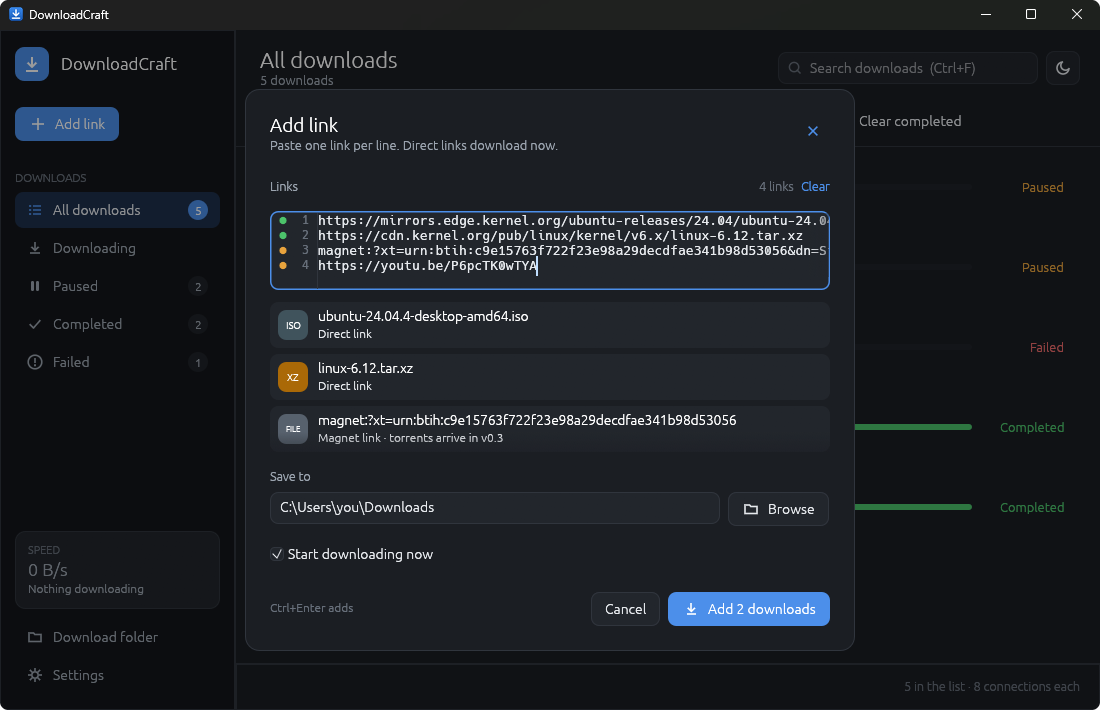
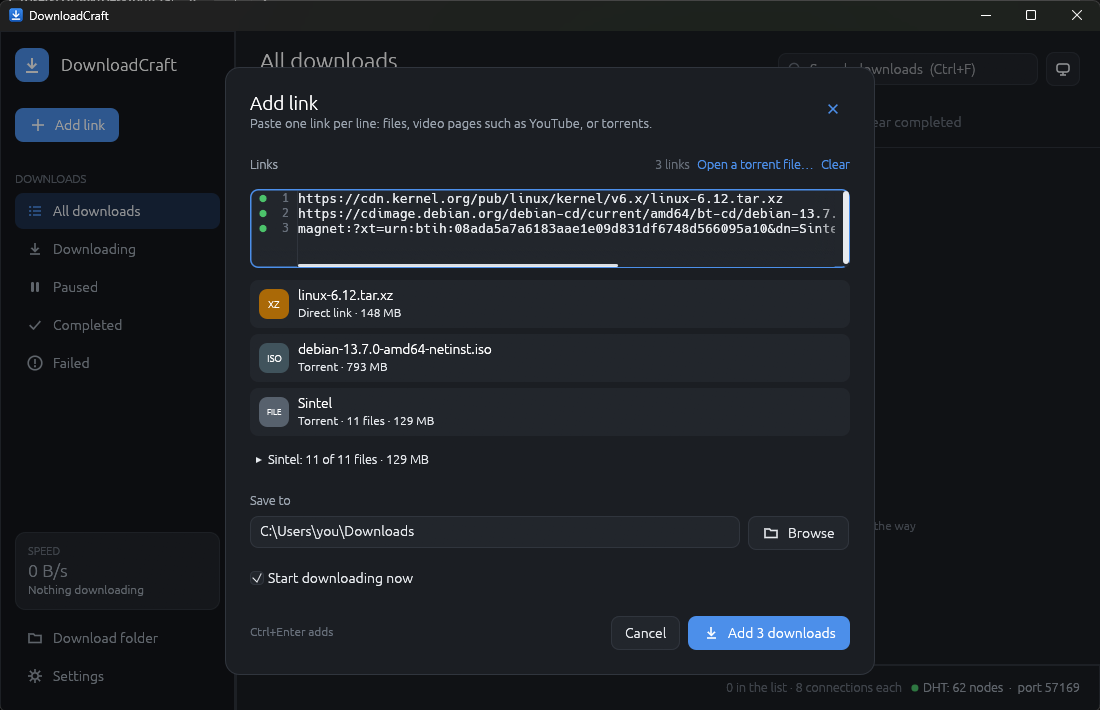
Docs: v0.4 as released, with this version's screenshots
The Stage line and the v0.4 milestone name everything in this version
(port forwarding rather than UPnP alone, Settings in sections, Check for
updates). The README folds the two notes on the details pane into one,
adds Settings in sections and Check for updates, and shows new pictures
of Add link (a direct link, Debian's torrent and Sintel's magnet link)
and of Settings on Connection, in place of 0.1's. The architecture notes
say port forwarding where they said UPnP.

diff --git a/README.md b/README.md
@@ -24,8 +24,8 @@
 
 <table>
 <tr>
-<td width="50%"><img src="docs/images/add-link.png" alt="The Add link dialog with four links pasted, one per numbered line with a dot for each: two direct links in green, shown below with their file names; a magnet link and a YouTube page in amber; the folder to save to, Start downloading now, and Add 2 downloads" width="100%"><p align="center"><sub><b>Paste several links at once.</b> Each line is checked as you type: green downloads now, amber needs something first, red isn't a link.</sub></p></td>
-<td width="50%"><img src="docs/images/settings.png" alt="Settings in the light theme: Theme with Dark, Light and System, the download folder, downloads at once and connections per download" width="100%"><p align="center"><sub><b>Light, dark or your system's theme</b>, and how many connections each download may open.</sub></p></td>
+<td width="50%"><img src="docs/images/add-link.png" alt="The Add link dialog in dark mode with three links pasted, each numbered with a green dot: a kernel tarball shown as Direct link, 148 MB; Debian's netinst torrent shown as Torrent, 793 MB; and Sintel's magnet link shown as Torrent, 11 files, 129 MB, with its file list folded underneath; the folder to save to, Start downloading now, and Add 3 downloads" width="100%"><p align="center"><sub><b>Paste several links at once</b>: files, video pages, magnet links and torrents. Each line is checked as you type, and a torrent's files can be picked before it starts.</sub></p></td>
+<td width="50%"><img src="docs/images/settings.png" alt="Settings in the light theme, with its sections down the side (General, Downloads, Videos, Torrents, Connection, About) and Connection open: peers per torrent, the port for incoming connections with Random, TCP or µTP, forwarding the port on the router, a SOCKS5 proxy and an IP filter" width="100%"><p align="center"><sub><b>Settings in sections</b>, here how torrents connect: a port kept and forwarded on your router, a proxy, an IP filter.</sub></p></td>
 </tr>
 </table>
 
@@ -77,16 +77,15 @@ Download only videos you have the right to. DRM-protected videos aren't supporte
   folder is never replaced; a resume checks what's on disk and fetches only what's missing.
 - **Sharing back.** A finished torrent is shared while DownloadCraft is open until it has sent its
   own size (0 to 10 times, in Settings).
-- **Details under the list**: how it's going, the trackers and how many share it, the peers
-  you're connected to, and each file's progress, where you can pick files while it runs.
+- **Details under the list**, folded away until you open them (and kept the way you leave
+  them): how it's going, the trackers and how many share it, the peers you're connected to, and
+  each file's progress, where you can pick files while it runs.
 - **Reachable, like other torrent clients.** DownloadCraft picks a port once and asks your router
   to forward it (NAT-PMP, or UPnP), so peers can connect to you as well as you to them; the dot in
   the status bar turns green once the router has. Settings turns it off.
 - **Your connection, your way**: the port (or a random one), TCP or TCP and µTP, speed limits
   overall and for each torrent, peers per torrent, a SOCKS5 proxy and an IP filter (`.dat` or
   `.p2p`).
-- **Details when you want them**: a pane under the list, folded away until you open it, and kept
-  the way you leave it.
 - Peers are found through trackers, the DHT and peer exchange, with
   [librqbit](https://github.com/ikatson/rqbit).
 
@@ -101,6 +100,8 @@ Download and share only what you have the right to.
 - **Show in folder** opens the file manager with the file selected, as browsers do. A file that's
   been deleted or moved shows as **Deleted**, with **Download again**.
 - **Remove asks first**, with a box to delete the file too (it goes to the Recycle Bin or Trash).
+- **Settings in sections**: General, Downloads, Videos, Torrents, Connection and About, each a
+  short page of its own.
 - **Light, dark or your system's theme.**
 - **Eight languages**: English, Deutsch, español, français, italiano, Nederlands, português do
   Brasil and русский. DownloadCraft follows your system's language unless you pick one in
@@ -127,7 +128,8 @@ Test builds are on the [releases page](https://github.com/ZIDAN44/downloadcraft/
 
 Installed from the `.msi`, the portable zip, the `.dmg` or the `.AppImage`, DownloadCraft updates
 itself. It downloads the next version in the background, checks its SHA-256, and installs it when
-you restart. Copies from releases follow releases; copies from test builds also follow test
+you restart. Settings › About has **Check for updates** too, and **Download and install** when
+there's a newer version. Copies from releases follow releases; copies from test builds also follow test
 builds. [How updates work](docs/updates.md).
 
 ## Using it

diff --git a/ROADMAP.md b/ROADMAP.md
@@ -1,6 +1,6 @@
 # Roadmap
 
-**Stage:** v0.4 — torrents and magnet links (2026-10-27).
+**Stage:** v0.4 — torrents and magnet links, Settings in sections, and Check for updates (2026-10-28).
 
 Each milestone below is a version, named for what it adds. The [Progress log](#progress-log)
 records what changed in each, and [docs/gaps.md](docs/gaps.md) ranks the work for the next one.
@@ -34,8 +34,9 @@ the next build, so no two different builds share a version.
 4. **v0.4 — Torrents** ✅ Magnet links and `.torrent` files, by link or from this computer (BEP 3,
    9, 10), with peers from trackers, the DHT (BEP 5) and peer exchange; choosing files inside a
    torrent, before and while it downloads, and which to download first; web seeds (BEP 19); seeding
-   to a ratio; a details pane (general, trackers, peers, files); the port, µTP, UPnP, peer limits,
-   speed limits overall and per torrent, a SOCKS5 proxy and an IP filter.
+   to a ratio; a details pane (general, trackers, peers, files); a port kept and forwarded on the
+   router (NAT-PMP or UPnP), µTP, peer limits, speed limits overall and per torrent, a SOCKS5 proxy
+   and an IP filter. Around them: Settings in sections, and Check for updates in About.
    Built on librqbit (Apache-2.0): no libtorrent-rasterbar bindings, no GPL clients' code.
 5. **v0.5 — More places** FTP and FTPS; sign-in for HTTP, kept in the system keychain; cookies
    handed over from the browser extension; scheduled start and stop; "shut down when done"; speed
@@ -194,3 +195,7 @@ the next build, so no two different builds share a version.
 - **2026-10-28** — **v0.4**: Check for updates in Settings › About: asks GitHub at once and says
   what it found; Download and install downloads the newer version, checks it and restarts into
   it. Tried end to end with a portable test copy, which updated itself to `v0.3.1-test.8`.
+- **2026-10-28** — **v0.4**: ready to release. Add link fits the window whatever is pasted (what
+  the links turn out to be scrolls; the title, the links, the folder and the buttons stay in
+  view). The README's screenshots of Add link (two torrents and a direct link) and Settings (in
+  sections, on Connection) are this version's; the documentation describes v0.4 as it is.

diff --git a/docs/architecture.md b/docs/architecture.md
@@ -79,7 +79,7 @@ never depends on the network layer: the apps connect the two.
 - One librqbit session serves every torrent, on a Tokio runtime of its own (two threads) started
   with the first torrent from the torrent settings (`torrent/engine.rs`, given by
   `Job::Configure` when the list loads and whenever `prefs.torrent` changes). Speed limits change
-  at once. A change to the port, protocol, UPnP, peer limit, proxy or IP filter starts a new
+  at once. A change to the port, protocol, port forwarding, peer limit, proxy or IP filter starts a new
   session for the next torrent once none is running; torrents still going keep theirs. The DHT
   keeps its nodes in `<data>/torrents/dht.json`; an IP filter is written there as
   `ipfilter.p2p` (`.dat` lines converted) for librqbit to read.
